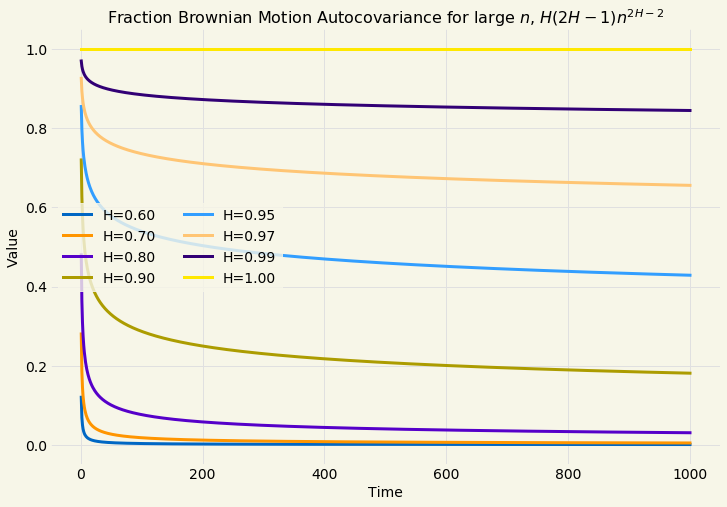
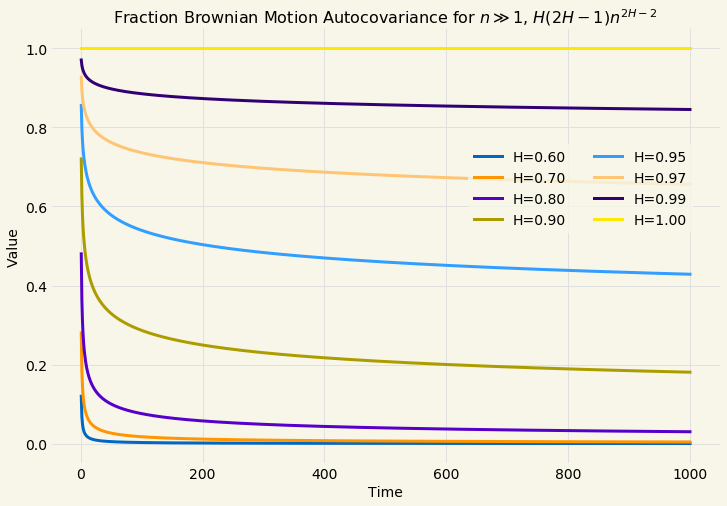
finished autocovariance ploys

diff --git a/hydrogen_notebooks/algorithmic_trading/simulation/fractional_brownian_motion_parameters.py b/hydrogen_notebooks/algorithmic_trading/simulation/fractional_brownian_motion_parameters.py
@@ -28,30 +28,29 @@ def fbm_covariance_plot(H_vals, s, time, file_name):
     axis.legend(ncol=2)
     config.save_post_asset(figure, "brownian_motion", file_name)
 
-def fbm_autocovariance_plot(H_vals, time, Δt, file_name):
+def fbm_autocovariance_plot(H_vals, time, lengend_location, file_name):
     figure, axis = pyplot.subplots(figsize=(12, 8))
     axis.set_xlabel("Time")
     axis.set_ylabel("Value")
     axis.set_title(r"Fraction Brownian Motion Autocovariance, $\frac{1}{2}[(n-1)^{2H} + (n+1)^{2H} - 2n^{2H}]$")
 
     for H in H_vals:
-        axis.plot(time, brownian_motion.fbm_autocovariance(H, time, Δt), label=f"H={format(H, '1.2f')}")
+        axis.plot(time, brownian_motion.fbm_autocovariance(H, time), label=f"H={format(H, '1.2f')}")
 
-    axis.legend(ncol=2)
+    axis.legend(ncol=2, bbox_to_anchor=lengend_location)
     config.save_post_asset(figure, "brownian_motion", file_name)
 
-def fbm_autocvariance_limit(H_vals, time, Δt, file_name):
+def fbm_autocvariance_limit(H_vals, time, lengend_location, file_name):
     figure, axis = pyplot.subplots(figsize=(12, 8))
     axis.set_xlabel("Time")
     axis.set_ylabel("Value")
-    axis.set_title(r"Fraction Brownian Motion Autocovariance for large $n$, $H(2H-1)n^{2H-2}$")
+    axis.set_title(r"Fraction Brownian Motion Autocovariance for $n\gg1$, $H(2H-1)n^{2H-2}$")
 
     for H in H_vals:
-        axis.plot(time, brownian_motion.fbm_autocovariance_limit(H, time, Δt), label=f"H={format(H, '1.2f')}")
+        axis.plot(time, brownian_motion.fbm_autocovariance_limit(H, time), label=f"H={format(H, '1.2f')}")
 
-    axis.legend(ncol=2)
+    axis.legend(ncol=2, bbox_to_anchor=lengend_location)
     config.save_post_asset(figure, "brownian_motion", file_name)
-
 
 # %%
 
@@ -121,7 +120,31 @@ nsteps = int(tmax/Δt)
 H_vals = [0.05, 0.1, 0.2, 0.3, 0.4, 0.5]
 time = numpy.linspace(1.0, tmax, nsteps)
 
-fbm_autocovariance_plot(H_vals, time, Δt, "fractional_brownian_motion_autocovariance_H_lt_eq_0.5")
+fbm_autocovariance_plot(H_vals, time, (0.8, 0.75), "fractional_brownian_motion_autocovariance_H_lt_eq_0.5")
+
+
+# %%
+
+tmax = 10.0
+Δt = 1.0
+nsteps = int(tmax/Δt)
+
+H_vals = [0.6, 0.7, 0.8, 0.9, 0.95, 0.975, 0.99, 1.0]
+time = numpy.linspace(1.0, tmax, nsteps)
+
+fbm_autocovariance_plot(H_vals, time, (0.6125, 0.75), "fractional_brownian_motion_autocovariance_H_gt_eq_0.5")
+
+# %%
+
+tmax = 1000.0
+Δt = 1.0
+nsteps = int(tmax/Δt)
+
+H_vals = [0.05, 0.1, 0.2, 0.3, 0.4, 0.5]
+time = numpy.linspace(1.0, tmax, nsteps)
+
+fbm_autocovariance_plot(H_vals, time, (0.8, 0.75), "fractional_brownian_motion_autocovariance_H_lt_eq_0.5_long_time")
+
 
 # %%
 
@@ -132,7 +155,18 @@ nsteps = int(tmax/Δt)
 H_vals = [0.6, 0.7, 0.8, 0.9, 0.95, 0.975, 0.99, 1.0]
 time = numpy.linspace(1.0, tmax, nsteps)
 
-fbm_autocovariance_plot(H_vals, time, Δt, "fractional_brownian_motion_autocovariance_H_gt_eq_0.5")
+fbm_autocovariance_plot(H_vals, time, (0.6125, 0.75), "fractional_brownian_motion_autocovariance_H_gt_eq_0.5_long_time")
+
+# %%
+
+tmax = 1000.0
+Δt = 1.0
+nsteps = int(tmax/Δt)
+
+H_vals = [0.05, 0.1, 0.2, 0.3, 0.4, 0.5]
+time = numpy.linspace(1.0, tmax, nsteps)
+
+fbm_autocvariance_limit(H_vals, time, (0.6, 0.525), "fractional_brownian_motion_autocovariance_limit_H_lt_eq_0.5")
 
 # %%
 
@@ -143,4 +177,4 @@ nsteps = int(tmax/Δt)
 H_vals = [0.6, 0.7, 0.8, 0.9, 0.95, 0.975, 0.99, 1.0]
 time = numpy.linspace(1.0, tmax, nsteps)
 
-fbm_autocvariance_limit(H_vals, time, Δt, "fractional_brownian_motion_autocovariance_limit_H_gt_eq_0.5")
+fbm_autocvariance_limit(H_vals, time, (0.6125, 0.75), "fractional_brownian_motion_autocovariance_limit_H_gt_eq_0.5")

diff --git a/lib/brownian_motion.py b/lib/brownian_motion.py
@@ -13,11 +13,11 @@ def fbm_variance(H, time):
 def fbm_covariance(H, s, time):
     return 0.5*(time**(2.0*H) + s**(2.0*H) - numpy.abs(time - s)**(2.0*H))
 
-def fbm_autocovariance(H, time, Δt):
-    return 0.5*((time-Δt)**(2.0*H) + (time+Δt)**(2.0*H) - 2.0*time**(2.0*H))
+def fbm_autocovariance(H, time):
+    return 0.5*((time-1.0)**(2.0*H) + (time+1.0)**(2.0*H) - 2.0*time**(2.0*H))
 
-def fbm_autocovariance_limit(H, time, Δt):
-    return Δt**(2.0*H)*(H*(2.0*H - 1.0)*time**(2.0*H - 2.0))
+def fbm_autocovariance_limit(H, time):
+    return H*(2.0*H - 1.0)*time**(2.0*H - 2.0)
 
 # Brownian Motion Simulations
 
